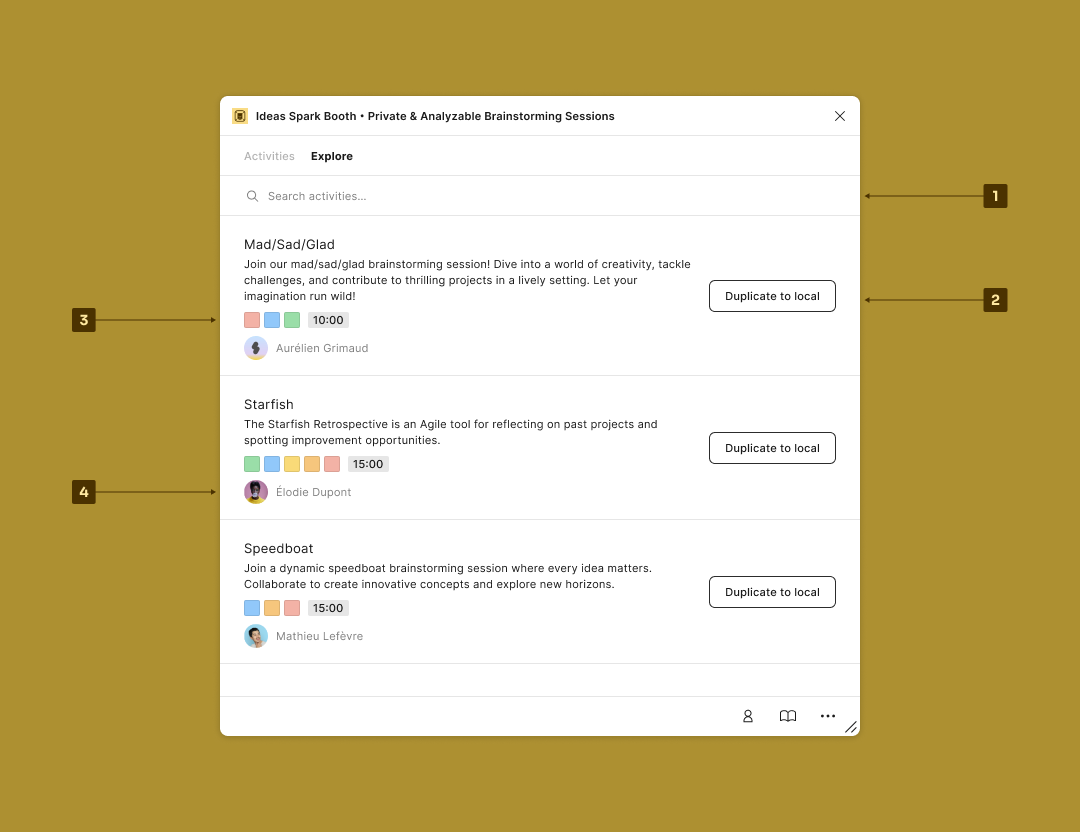
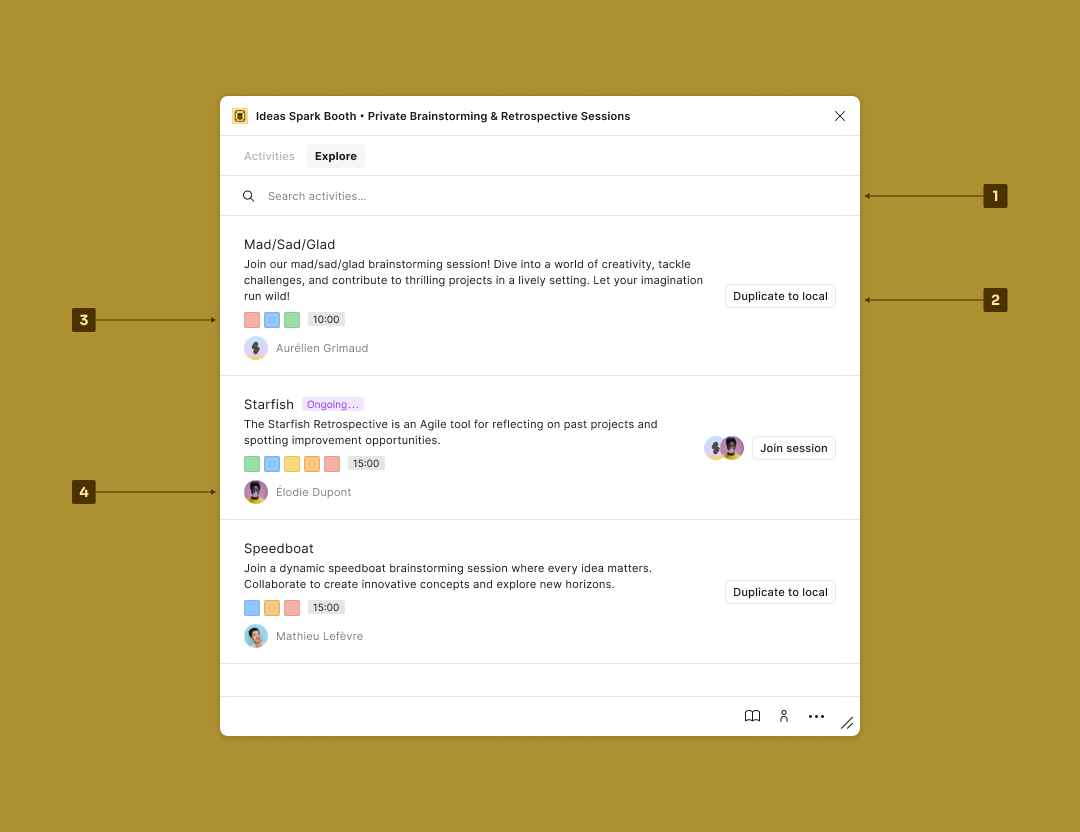
GITBOOK-9: Aurélien's Mar 16 changes

diff --git a/run-sessions/participate-in-a-session/learn-from-the-context.md b/run-sessions/participate-in-a-session/learn-from-the-context.md
@@ -1,12 +1,12 @@
 # Learn from the context
 
-When a facilitator starts a session, you are moved to a specific context for typing your ideas. You can learn more about what the session expects from you by reading on the right bar:
+When a facilitator starts a session, you can move to the active session and a specific context for typing your ideas. You can learn more about what the session expects from you by reading on the right bar:
 
+* The `Facilitator` of the session
 * The `Description` of the activity.
-* The `Instructions` for the activity.
 * The different `Types` you have with their description.
 
 {% hint style="info" %}
-Feel free to contact the facilitator if you lack information. You might use the `FigJam` board in-app microphone.
+Feel free to contact the facilitator if you lack information. You might use the `FigJam` board or `Slides` in-app microphone.
 {% endhint %}
 

diff --git a/run-sessions/facilitate-a-session/start-a-session.md b/run-sessions/facilitate-a-session/start-a-session.md
@@ -1,6 +1,6 @@
 # Start a session
 
-When starting a session from a defined activity, you and the persons who have already opened the `Ideas Spark Booth` are moved to a specific context to participate and type ideas. Everyone will be notified of who has started the new session.
+When starting a session from a defined activity, you and the persons who have already opened the `Ideas Spark Booth` can move to a specific context to participate and type ideas. Everyone will be notified of who has started the new session.
 
 {% hint style="info" %}
 When starting a new session, your role is automatically set to `Facilitator`.

diff --git a/run-sessions/overview.md b/run-sessions/overview.md
@@ -1,11 +1,11 @@
 ---
-icon: eyes
 description: A quick glance at the controller
+icon: eyes
 ---
 
 # Overview
 
-<figure><img src="../.gitbook/assets/participate_in_a_session-facilitate.png" alt=""><figcaption><p>Facilitate</p></figcaption></figure>
+<figure><img src="../.gitbook/assets/participate_in_a_session-facilitate.png" alt=""><figcaption><p>Facilitator</p></figcaption></figure>
 
 1. `End session` and back to the local activities list.
 2. Update the typed ideas:
